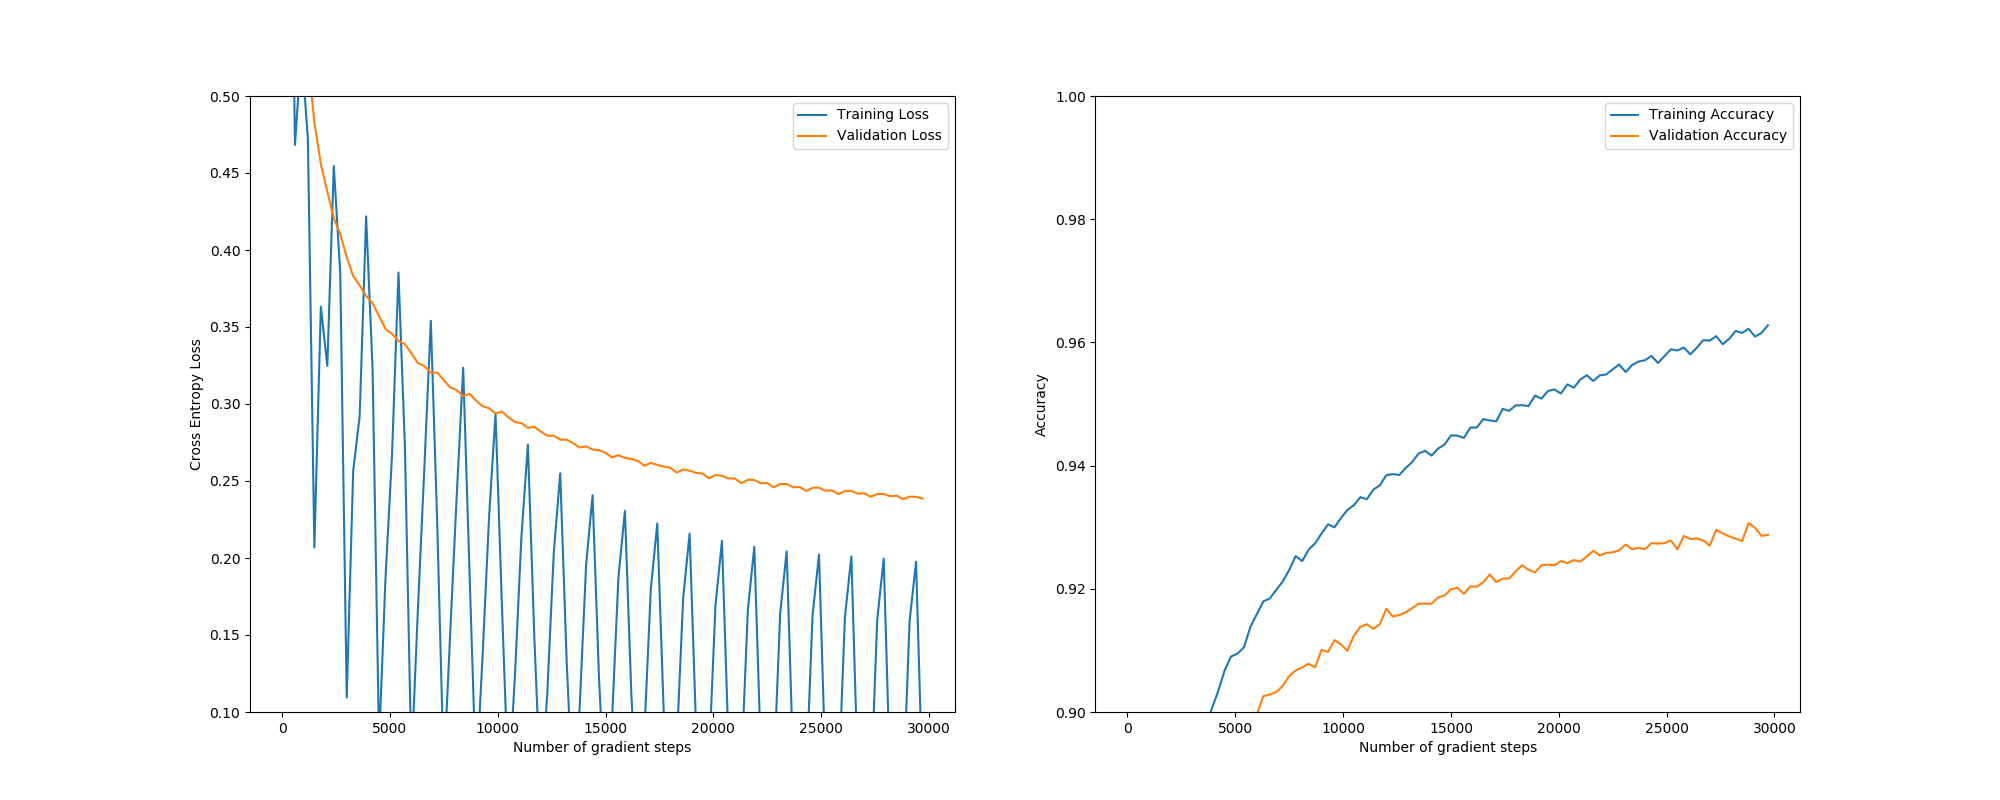
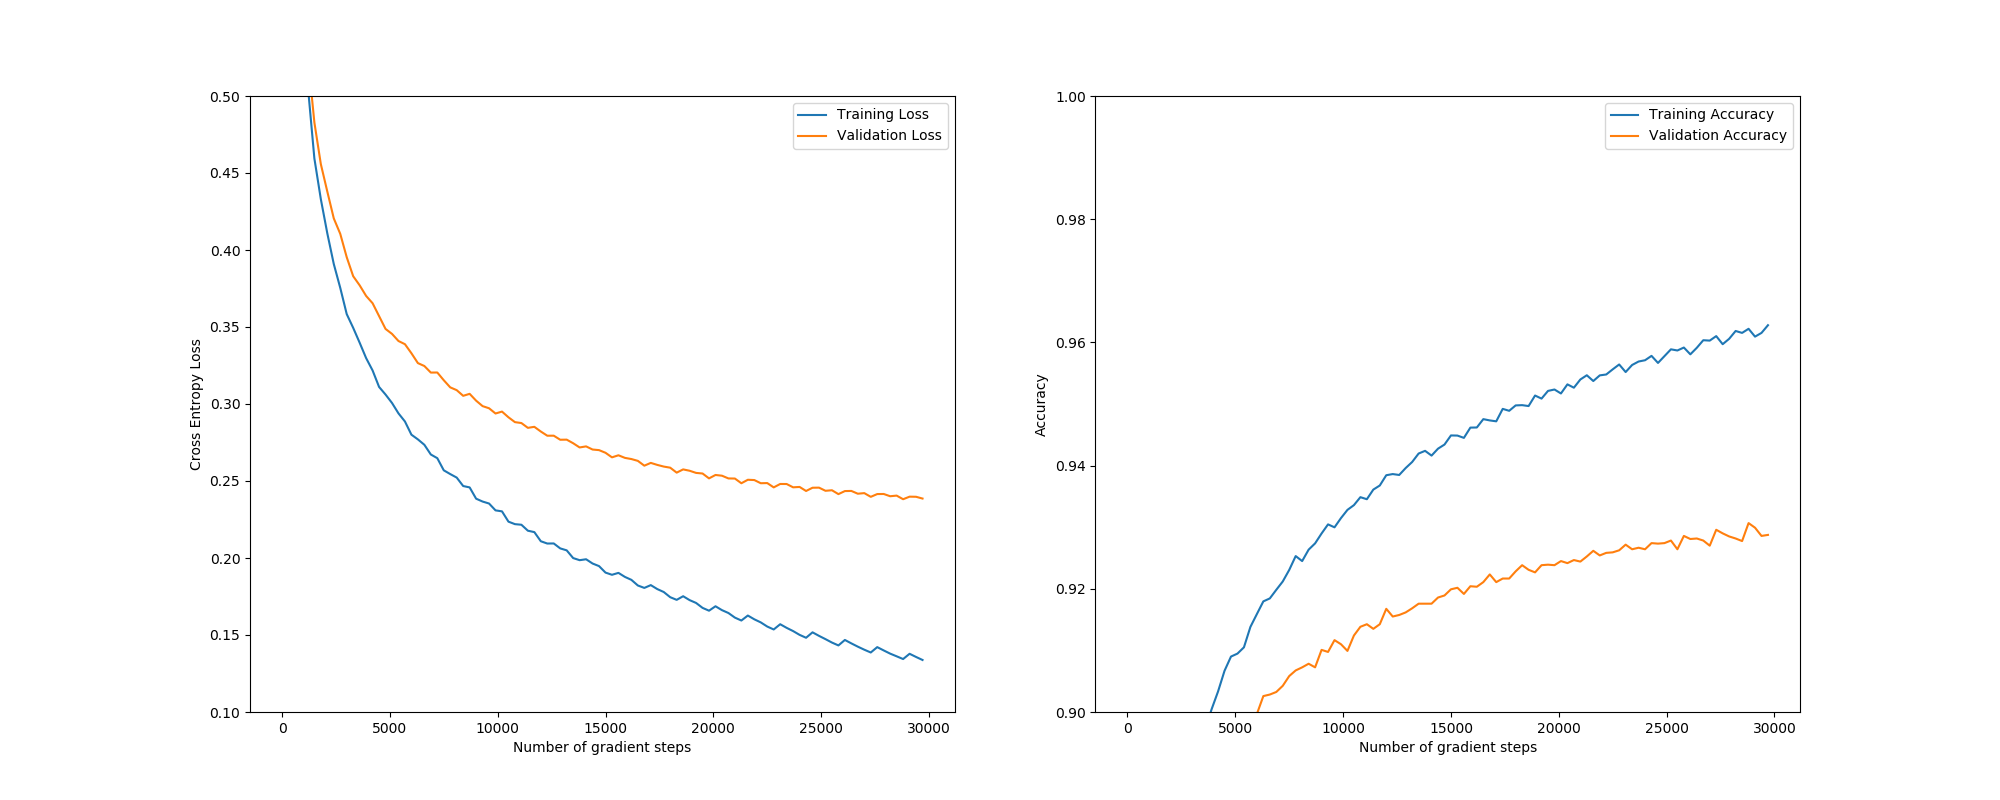
fix: training loss calculation, should use whole training data to calculate loss and not just batch

Changed region(s): [[0.155, 0.2188, 0.465, 0.875], [0.124, 0.125, 0.155, 0.1562]]

diff --git a/assignment2/task2.py b/assignment2/task2.py
@@ -63,11 +63,11 @@ def train(
             model.ws[0] = model.ws[0] - learning_rate * model.grads[0]
 
             # Track train / validation loss / accuracy
-            _train_loss = cross_entropy_loss(Y_batch, model.forward(X_batch))
-            train_loss[global_step] = _train_loss
-            
             # every time we progress 20% through the dataset
             if (global_step % num_steps_per_val) == 0:
+                _train_loss = cross_entropy_loss(Y_train, model.forward(X_train))
+                train_loss[global_step] = _train_loss
+
                 _val_loss = cross_entropy_loss(Y_val, model.forward(X_val))
                 val_loss[global_step] = _val_loss
 
